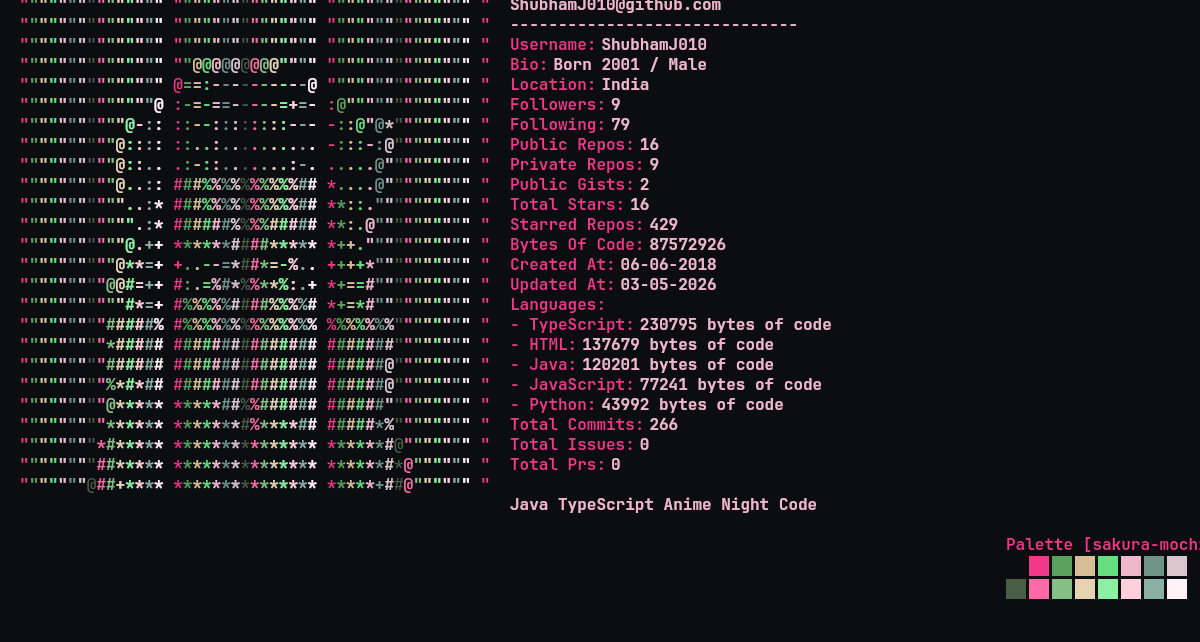
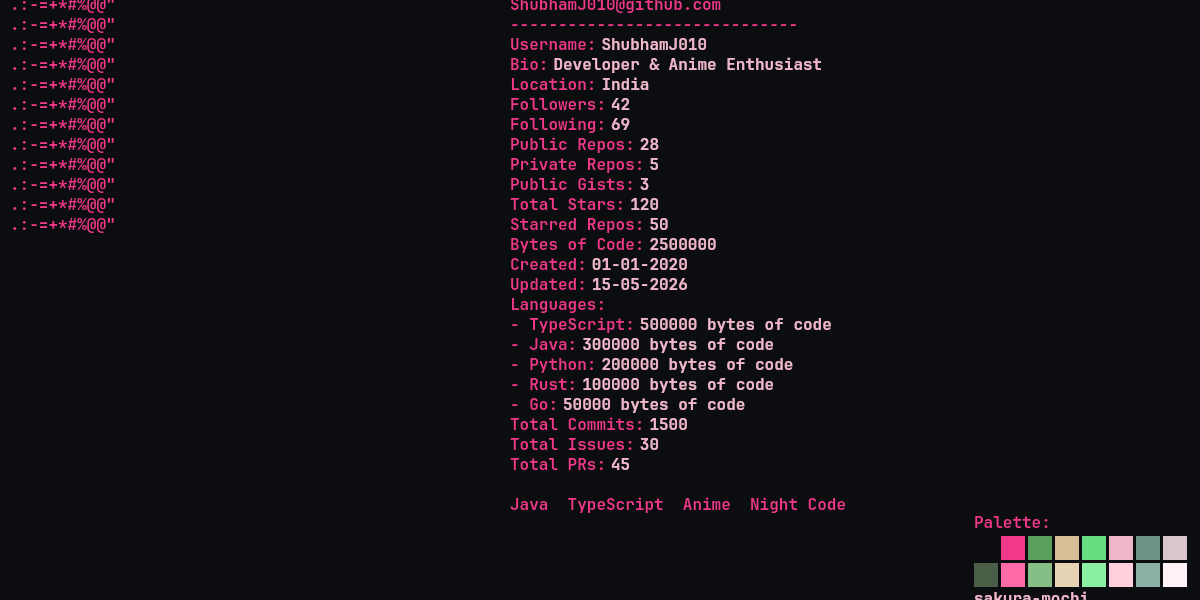
fix: restore original ASCII art line rendering with sakura-mochi colors and JetBrains Mono Bold

Changed region(s): [[0.0, 0.0, 0.7092, 0.87], [0.8017, 0.84, 1.0, 1.0]]

diff --git a/readmefetch/src/gen_readme.ts b/readmefetch/src/gen_readme.ts
@@ -110,13 +110,9 @@ async function genImage(octokit: Octokit, outDir = "out") {
     const lineSpacing = fontSize + 4;
 
     let yOffset = 10;
-    const charWidth = ctx.measureText("A").width;
     for (const asciiLine of asciiLines) {
-      for (let c = 0; c < asciiLine.length; c++) {
-        const pIdx = c % palette.length;
-        ctx.fillStyle = `rgb(${palette[pIdx][0]}, ${palette[pIdx][1]}, ${palette[pIdx][2]})`;
-        ctx.fillText(asciiLine[c], 10 + c * charWidth, yOffset);
-      }
+      ctx.fillStyle = `rgb(${valueColor[0]}, ${valueColor[1]}, ${valueColor[2]})`;
+      ctx.fillText(asciiLine, 10, yOffset);
       yOffset += lineSpacing;
     }
 

diff --git a/readmefetch/test.ts b/readmefetch/test.ts
@@ -139,15 +139,12 @@ async function main() {
   const asciiW = 450;
   const textMargin = 60;
 
-  // ASCII art on the left — use palette colors cycling through
+  // ASCII art on the left — single color per line (original structure)
   let y = 10;
   for (const line of lines) {
     const asciiPart = line.slice(0, 50);
-    for (let c = 0; c < asciiPart.length; c++) {
-      const pIdx = c % palette.length;
-      ctx.fillStyle = rgbStr(palette[pIdx]);
-      ctx.fillText(asciiPart[c], 10 + c * 9.6, y);
-    }
+    ctx.fillStyle = rgbStr(vl);
+    ctx.fillText(asciiPart, 10, y);
     y += lineH;
   }
 
